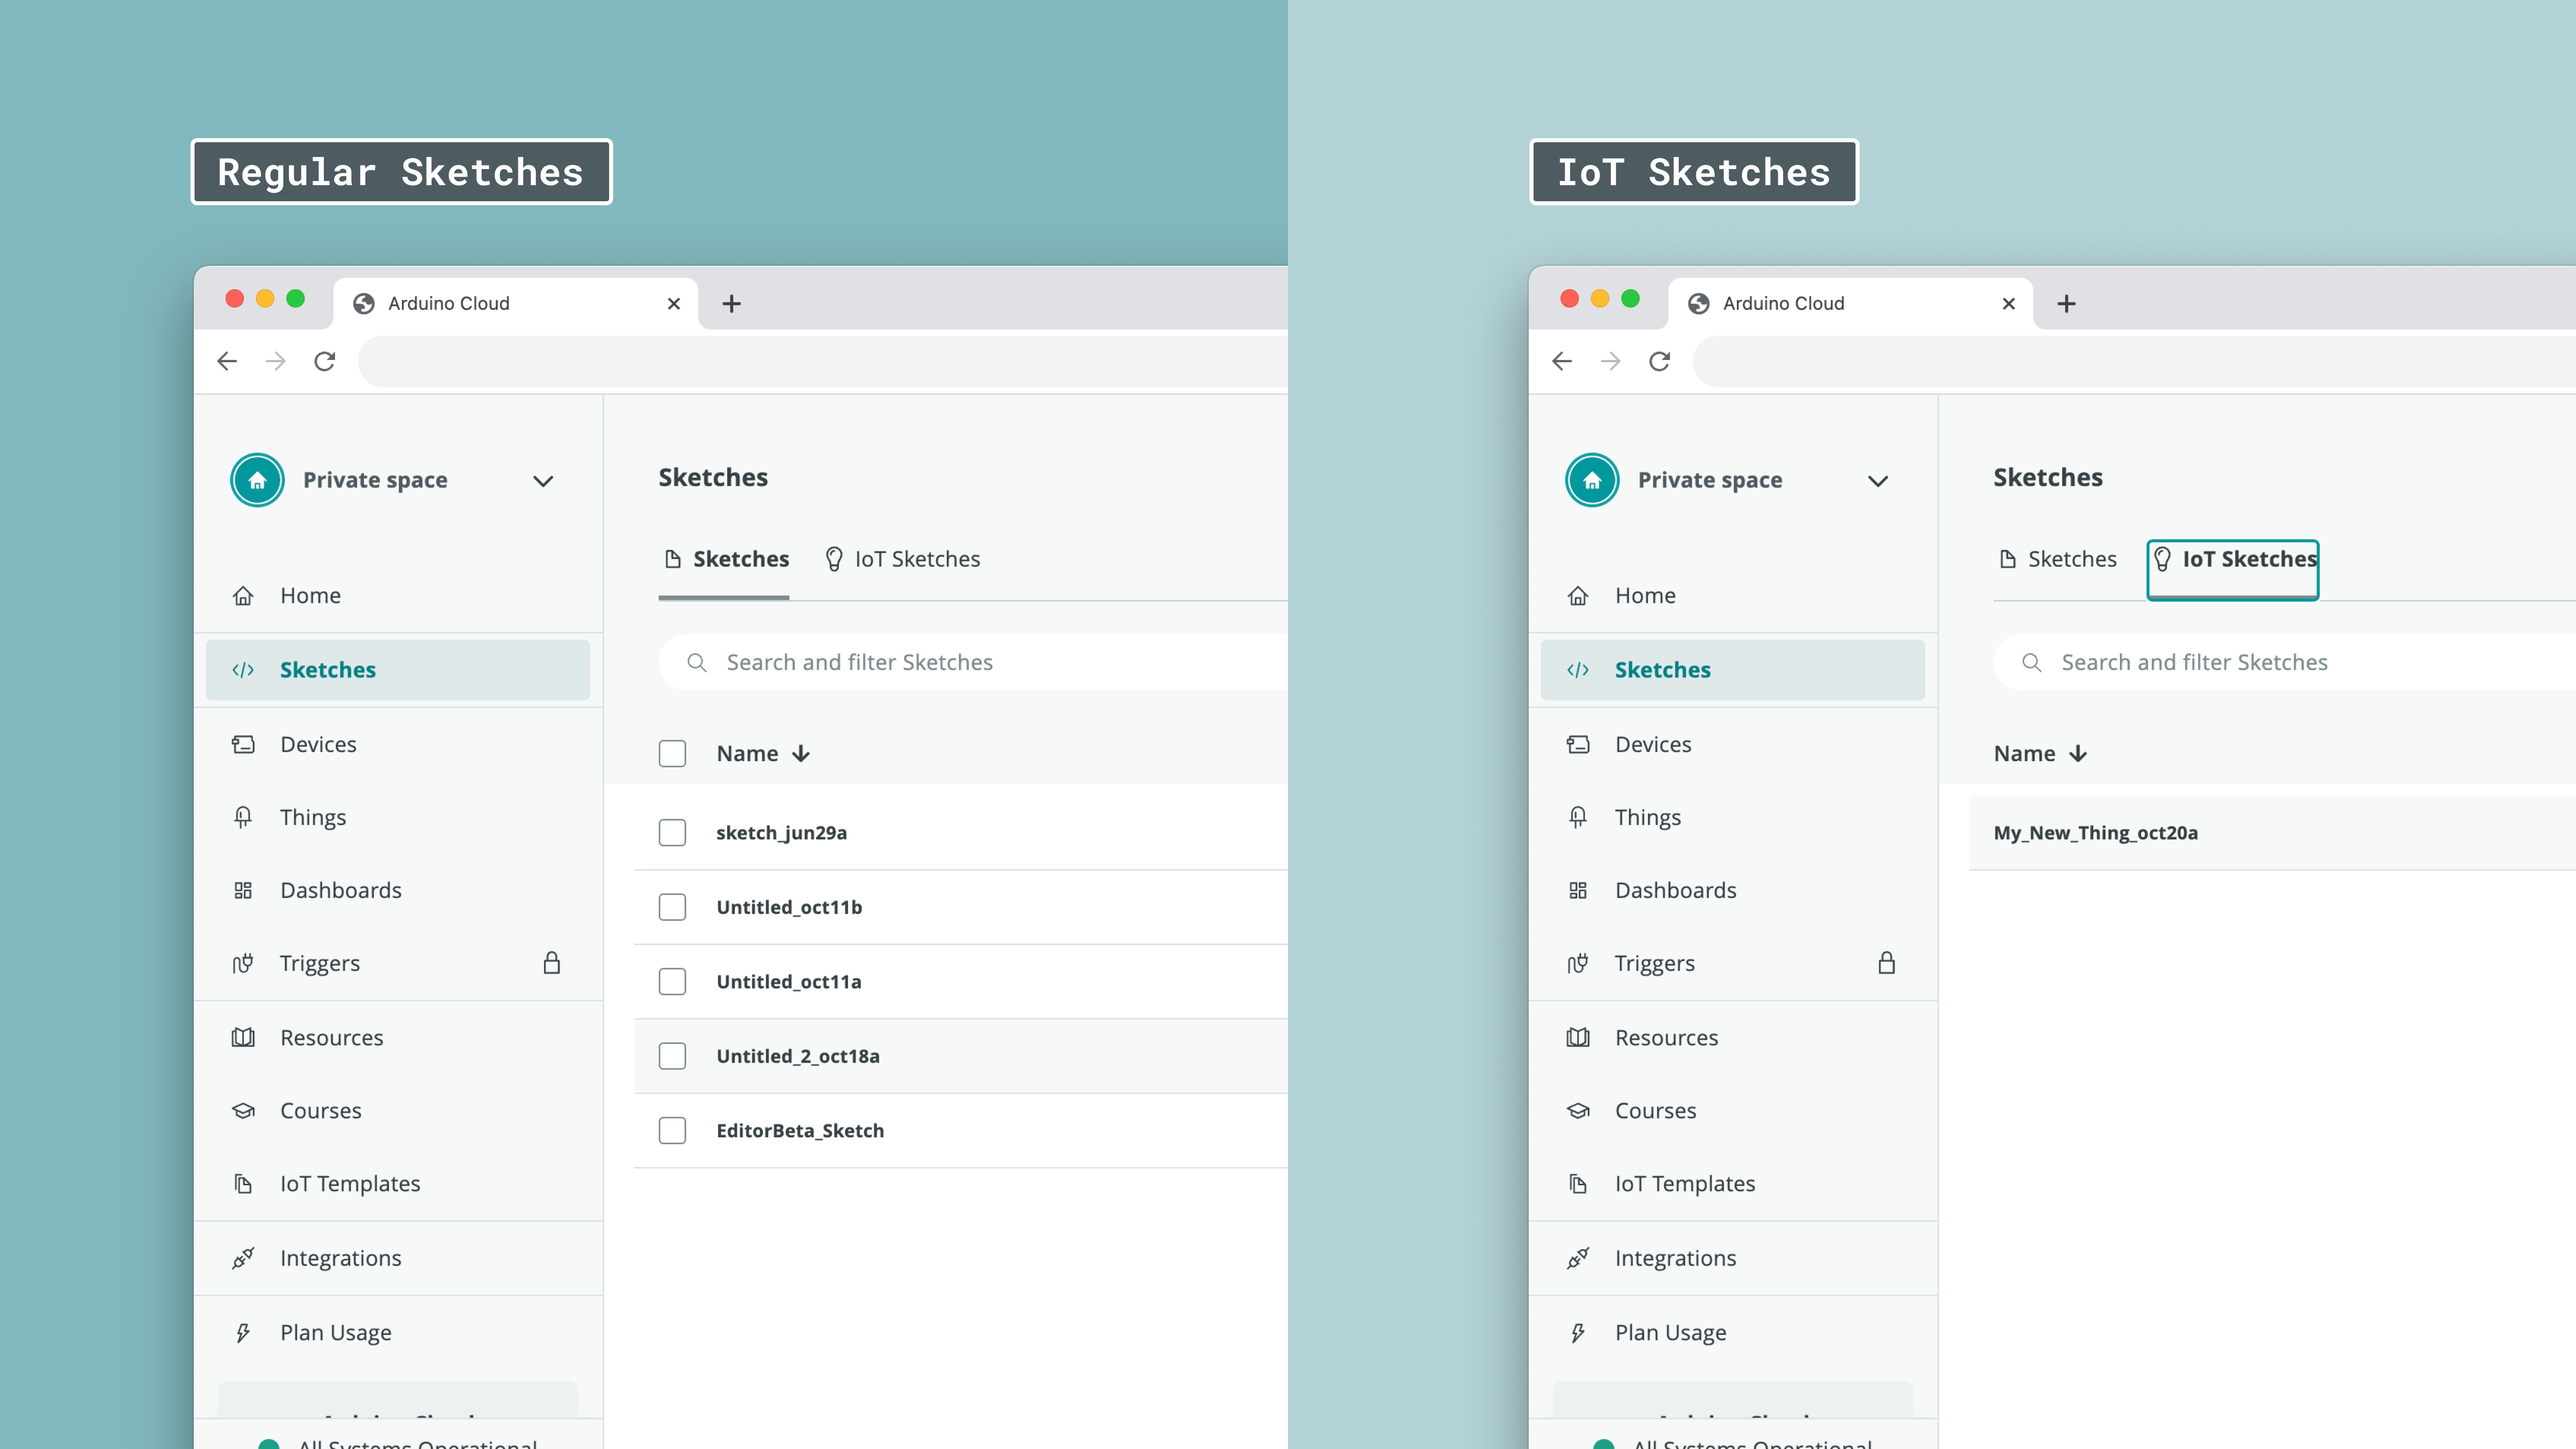
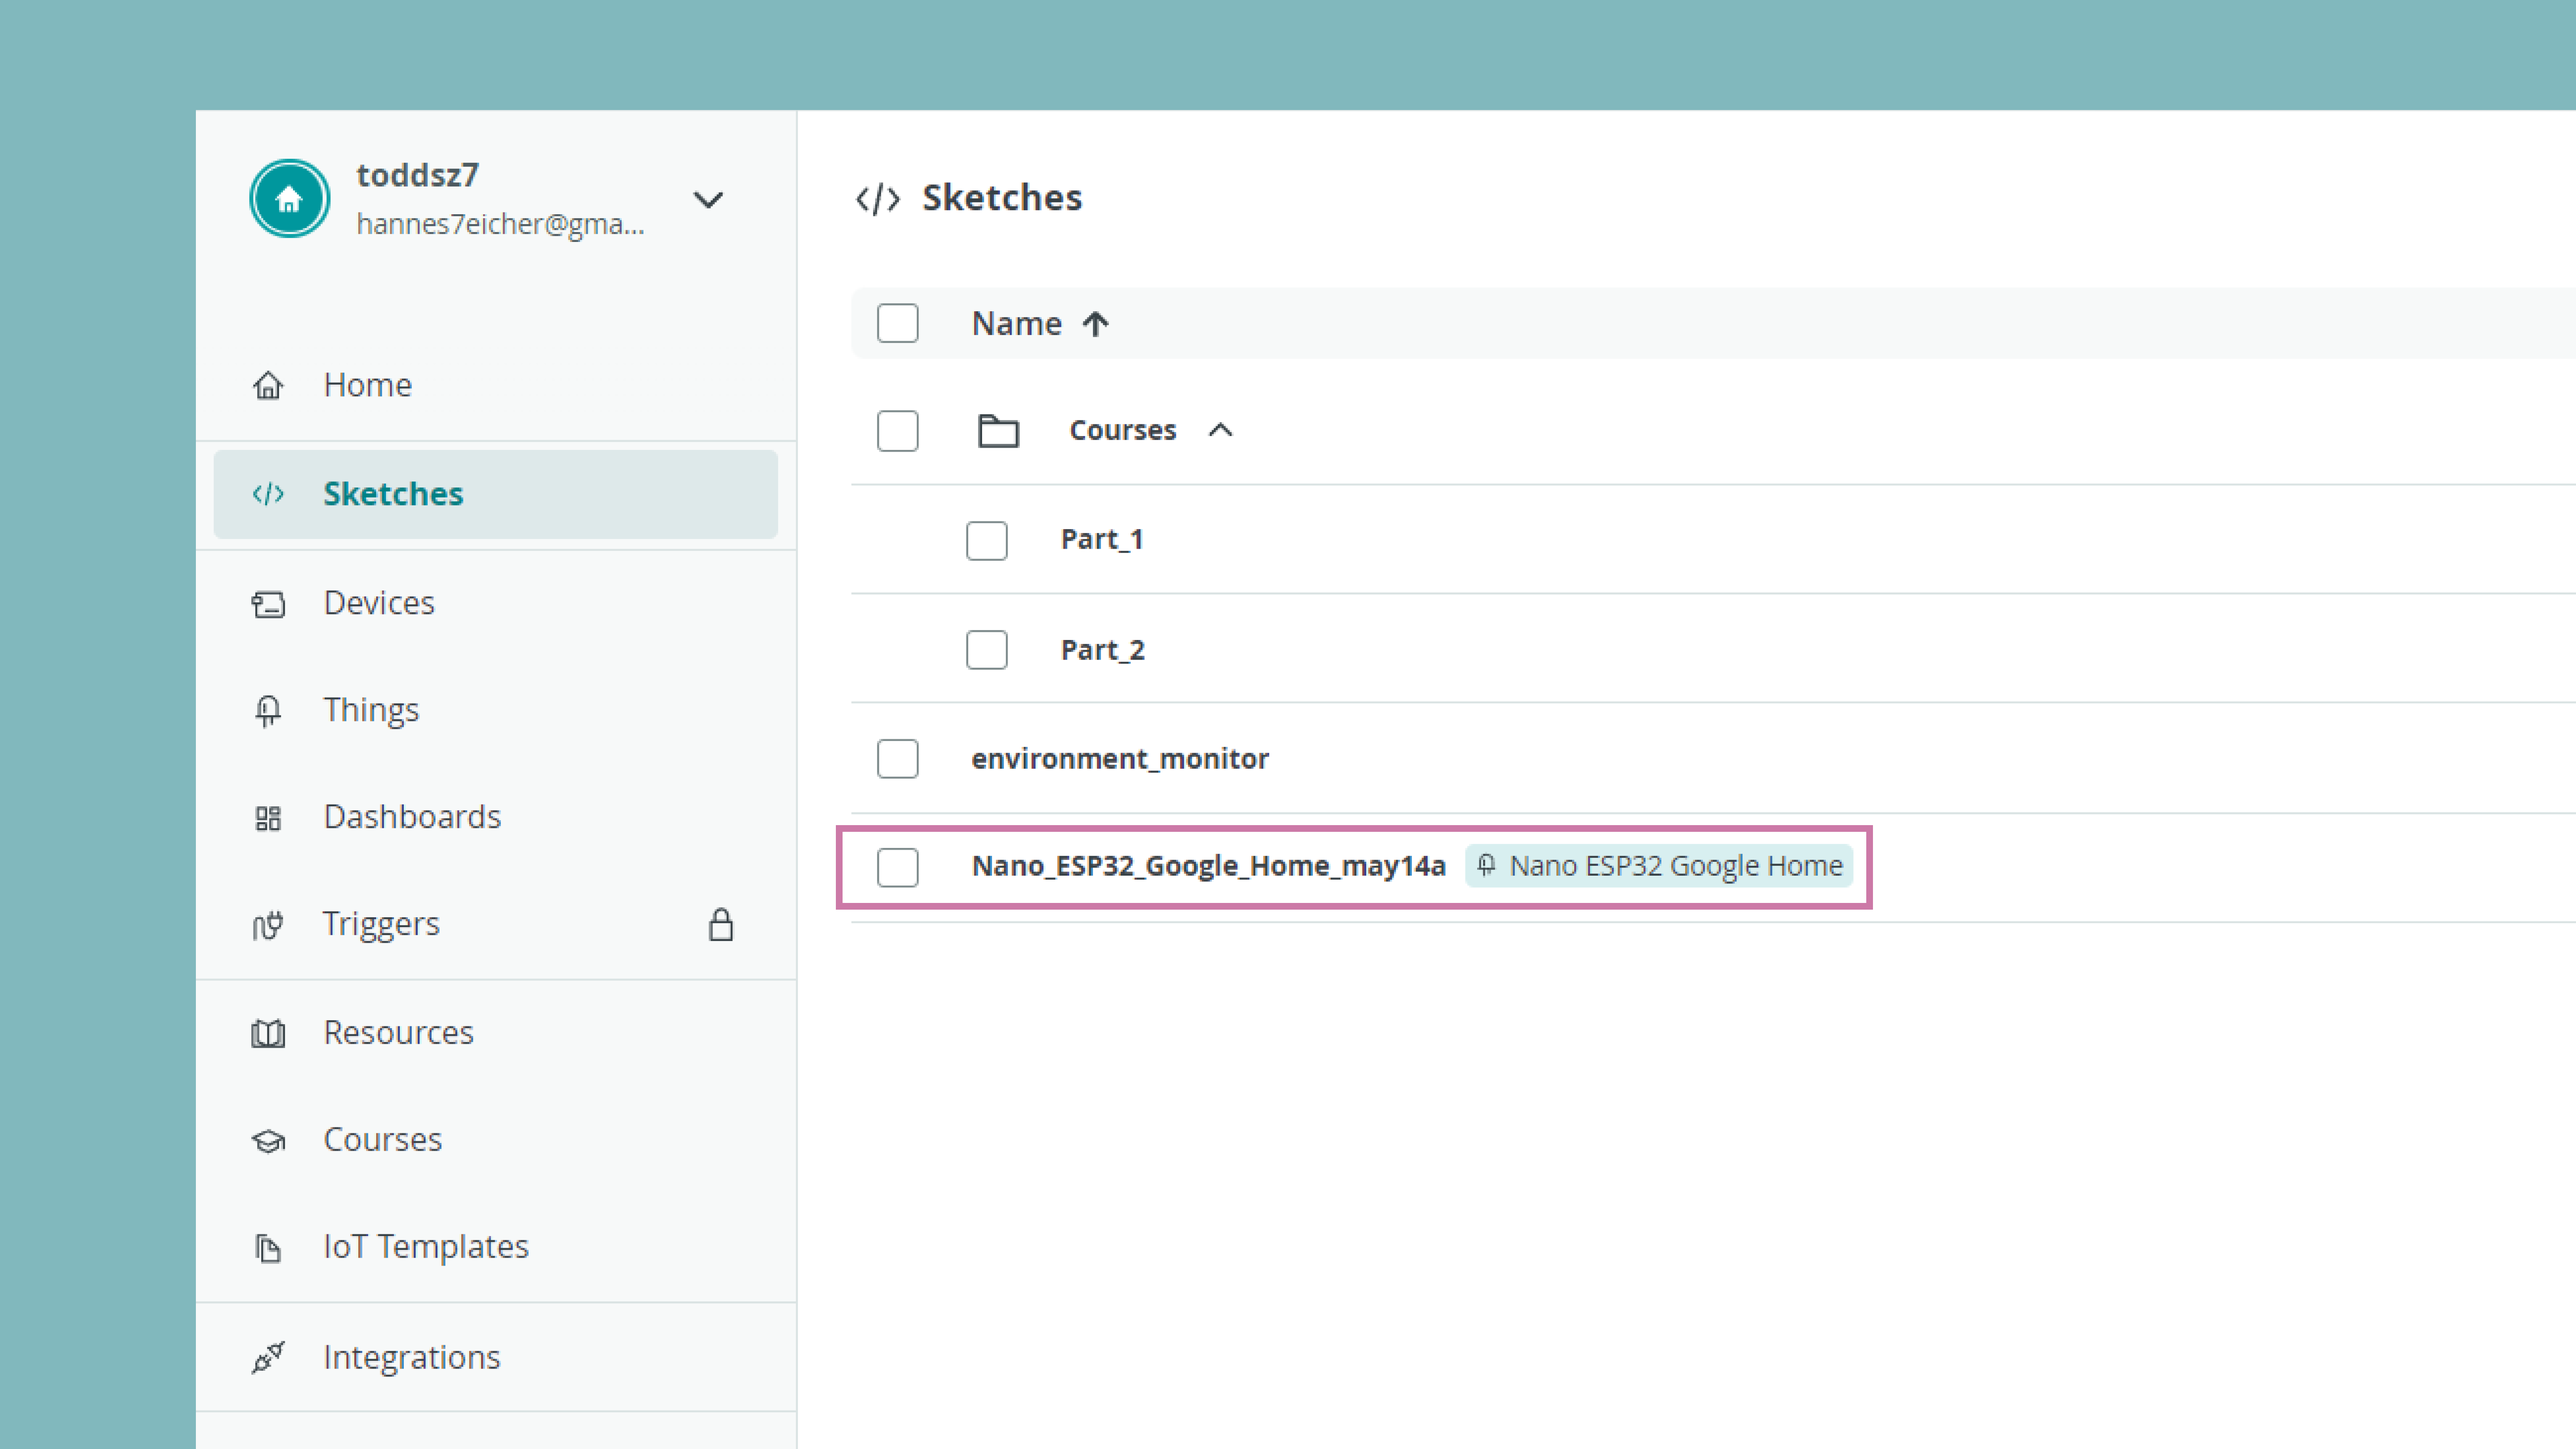
update sketches article

diff --git a/content/arduino-cloud/03.cloud-interface/00.sketches/sketches.md b/content/arduino-cloud/03.cloud-interface/00.sketches/sketches.md
@@ -8,22 +8,34 @@ author: Karl Söderby
 A sketch is a file where we write programs to run on our Arduino boards. Sketches have a `.ino` extension, which supports the Arduino programming language (a variant of C++).
 
 The Arduino Cloud has two categories of sketches:
-- **Regular sketch** - a single `.ino` file where you write a program. These sketches can be used for **any** Arduino board. 
-- **IoT Sketch** - a set of files that are automatically generated when creating a [Thing](/arduino-cloud/cloud-interface/things). This includes an `.ino` file and two header (`.h`) files that contain your Thing configuration + credentials. Only available for boards with IoT support.
+- **Sketch** - a single `.ino` file where you write a program. These sketches can be used for **any** Arduino board. 
+- **Sketch with attached Thing** - a set of files that are automatically generated when creating a [Thing](/arduino-cloud/cloud-interface/things). This includes an `.ino` file and two header (`.h`) files that contain your Thing configuration + credentials. Only available for boards with Arduino Cloud support.
 
-In this document we will take a look at how to use sketches in the Arduino Cloud environment.
+In this document, we will take a look at how to use sketches in the Arduino Cloud environment.
 
 ***If you need help getting started with programming your Arduino in the online environment, check out the [Cloud Editor](/arduino-cloud/guides/cloud-editor) tutorial.***
 
 ## Access Your Sketches
 
-You can access all your sketches at [app.arduino.cc/sketches](https://app.arduino.cc/sketches), where you can easily select between your regular sketches and IoT sketches.
+You can access all your sketches at [app.arduino.cc/sketches](https://app.arduino.cc/sketches). Here you can easily see if your sketch has a Thing connected to it by checking if it has a light blue text box next to it.
 
-![Sketches in the Arduino Cloud.](assets/sketch.png)
+![Sketches in the Arduino Cloud](./assets/sketch.png)
 
 Clicking on each sketch will direct you to the [Cloud Editor](https://create.arduino.cc/editor/), which is an online version of the Arduino IDE. Here you can write a program, compile it and upload it to your board. 
 
 ***To get started with the Cloud Editor, check out the [Cloud Editor](/arduino-cloud/guides/cloud-editor) tutorial.***
+
+### How to Create and Organize Folders
+
+You can easily organize your sketches by creating folders. Here’s how you can do it:
+
+**Create a New Folder**: Click on **Create**, then select **New Folder**.
+
+**Move Sketches into a Folder**:
+
+- **Drag and Drop**: Simply drag the sketch you want to move and drop it into the desired folder.
+
+- **Right-Click and Move**: Alternatively, click the three dots on the right, choose the option "Move to folder", and then select the folder you want to move it to.
 
 ## Regular Sketches
 
@@ -45,11 +57,11 @@ If you are new to the Arduino environment, you can check out the [Language Refer
 
 For specific features of a board, make sure to check out the [hardware documentation](/).
 
-## IoT Sketches
+## Sketches with an attached Thing
 
-IoT sketches are more complex and are generated automatically when you create a Thing and variables.
+Sketches with an attached Thing are more complex and are generated automatically when you create a Thing and variables.
 
-***Read more about this in the [Automatic Sketch Generation](/arduino-cloud/cloud-interface/sketches) documentation.***
+***Read more about [Things](/arduino-cloud/cloud-interface/things/).***
 
 ### Sketch File
 
@@ -122,7 +134,7 @@ The Remote Sketchbook feature is great as you can push/pull your sketches from t
 ***A very important note on Remote Sketchbook: when you push/pull a sketch, you will overwrite the existing sketch, similarly to how GitHub works, but without the option of retrieving your previous sketch.***
 
 
-## Recommended Code Practices (IoT Sketches)
+## Recommended Code Practices (Sketches with an attached Thing)
 
 This section highlights some important aspects of writing code with regard to the implementations in the [ArduinoIoTCloud](https://github.com/arduino-libraries/ArduinoIoTCloud).
 
